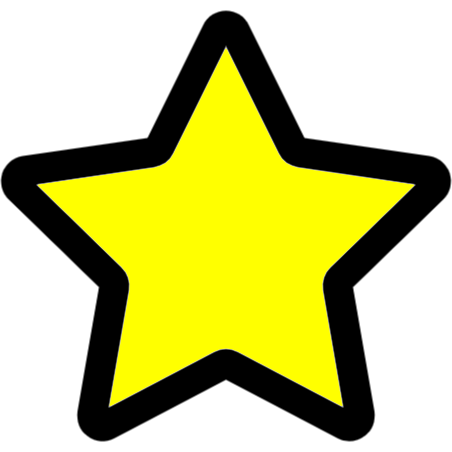
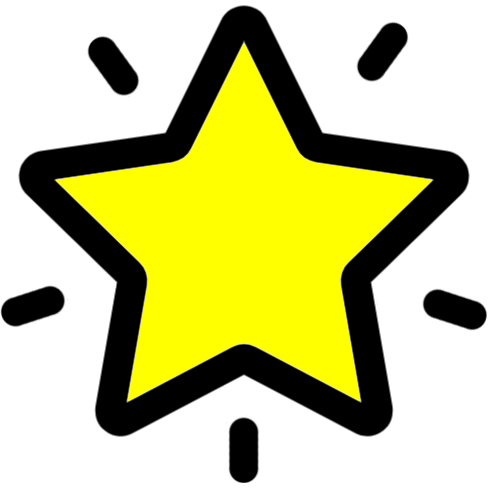
Receta ya muestra si es favotiro o al cargar

diff --git a/readyRecipes-front/src/app/views/receta/receta.component.ts b/readyRecipes-front/src/app/views/receta/receta.component.ts
@@ -22,7 +22,7 @@ export class RecetaComponent {
   public cargando: boolean = false;
   public letraNutriscore = "";
   comentarioInput: string = "";
-  @Input() esFavorito: boolean = false;
+  esFavorito: boolean = false;
   comentarios: Comentario[] = [];
 
   constructor(
@@ -37,6 +37,7 @@ export class RecetaComponent {
   ngOnInit(): void {
     this.id = Number(this.route.snapshot.paramMap.get("id") || "");
     this.cargando = true;
+    this.getEsFavorito();
     try {
       this.cargarReceta();
       this.cargarComentarios();
@@ -91,17 +92,17 @@ export class RecetaComponent {
 
   cambiarFavorito() {
     if(this.esFavorito) {
-      this.favoritoService.removeFavoritos(
-        this.id,
-        Number(this.autenticacionService.getId()),
-      ).subscribe();
+      this.favoritoService.removeFavoritos(this.id, Number(this.autenticacionService.getId())).subscribe();
     } else {
-      this.favoritoService.addFavoritos(
-        this.id,
-        Number(this.autenticacionService.getId()),
-      ).subscribe();
+      this.favoritoService.addFavoritos(this.id, Number(this.autenticacionService.getId())).subscribe();
     }
     this.esFavorito = !this.esFavorito;
+  }
+
+  getEsFavorito() {
+    this.favoritoService.esFavorito(this.id, Number(this.autenticacionService.getId())).subscribe(data => {
+      this.esFavorito = (data == 1);
+    });
   }
 
   estaLogeado(): boolean {

diff --git a/readyRecipes-front/src/app/services/favorito.service.ts b/readyRecipes-front/src/app/services/favorito.service.ts
@@ -26,4 +26,10 @@ export class FavoritoService {
       environment.apiUrl + "removeFavoritos/" + _id_receta + "/" + _id_usuario,
     );
   }
+
+  public esFavorito(_id_receta: number, _id_usuario: number): Observable<number> {
+    return this.httpClient.get<number>(
+      environment.apiUrl + "esFavorito/" + _id_receta + "/" + _id_usuario,
+    );
+  }
 }
